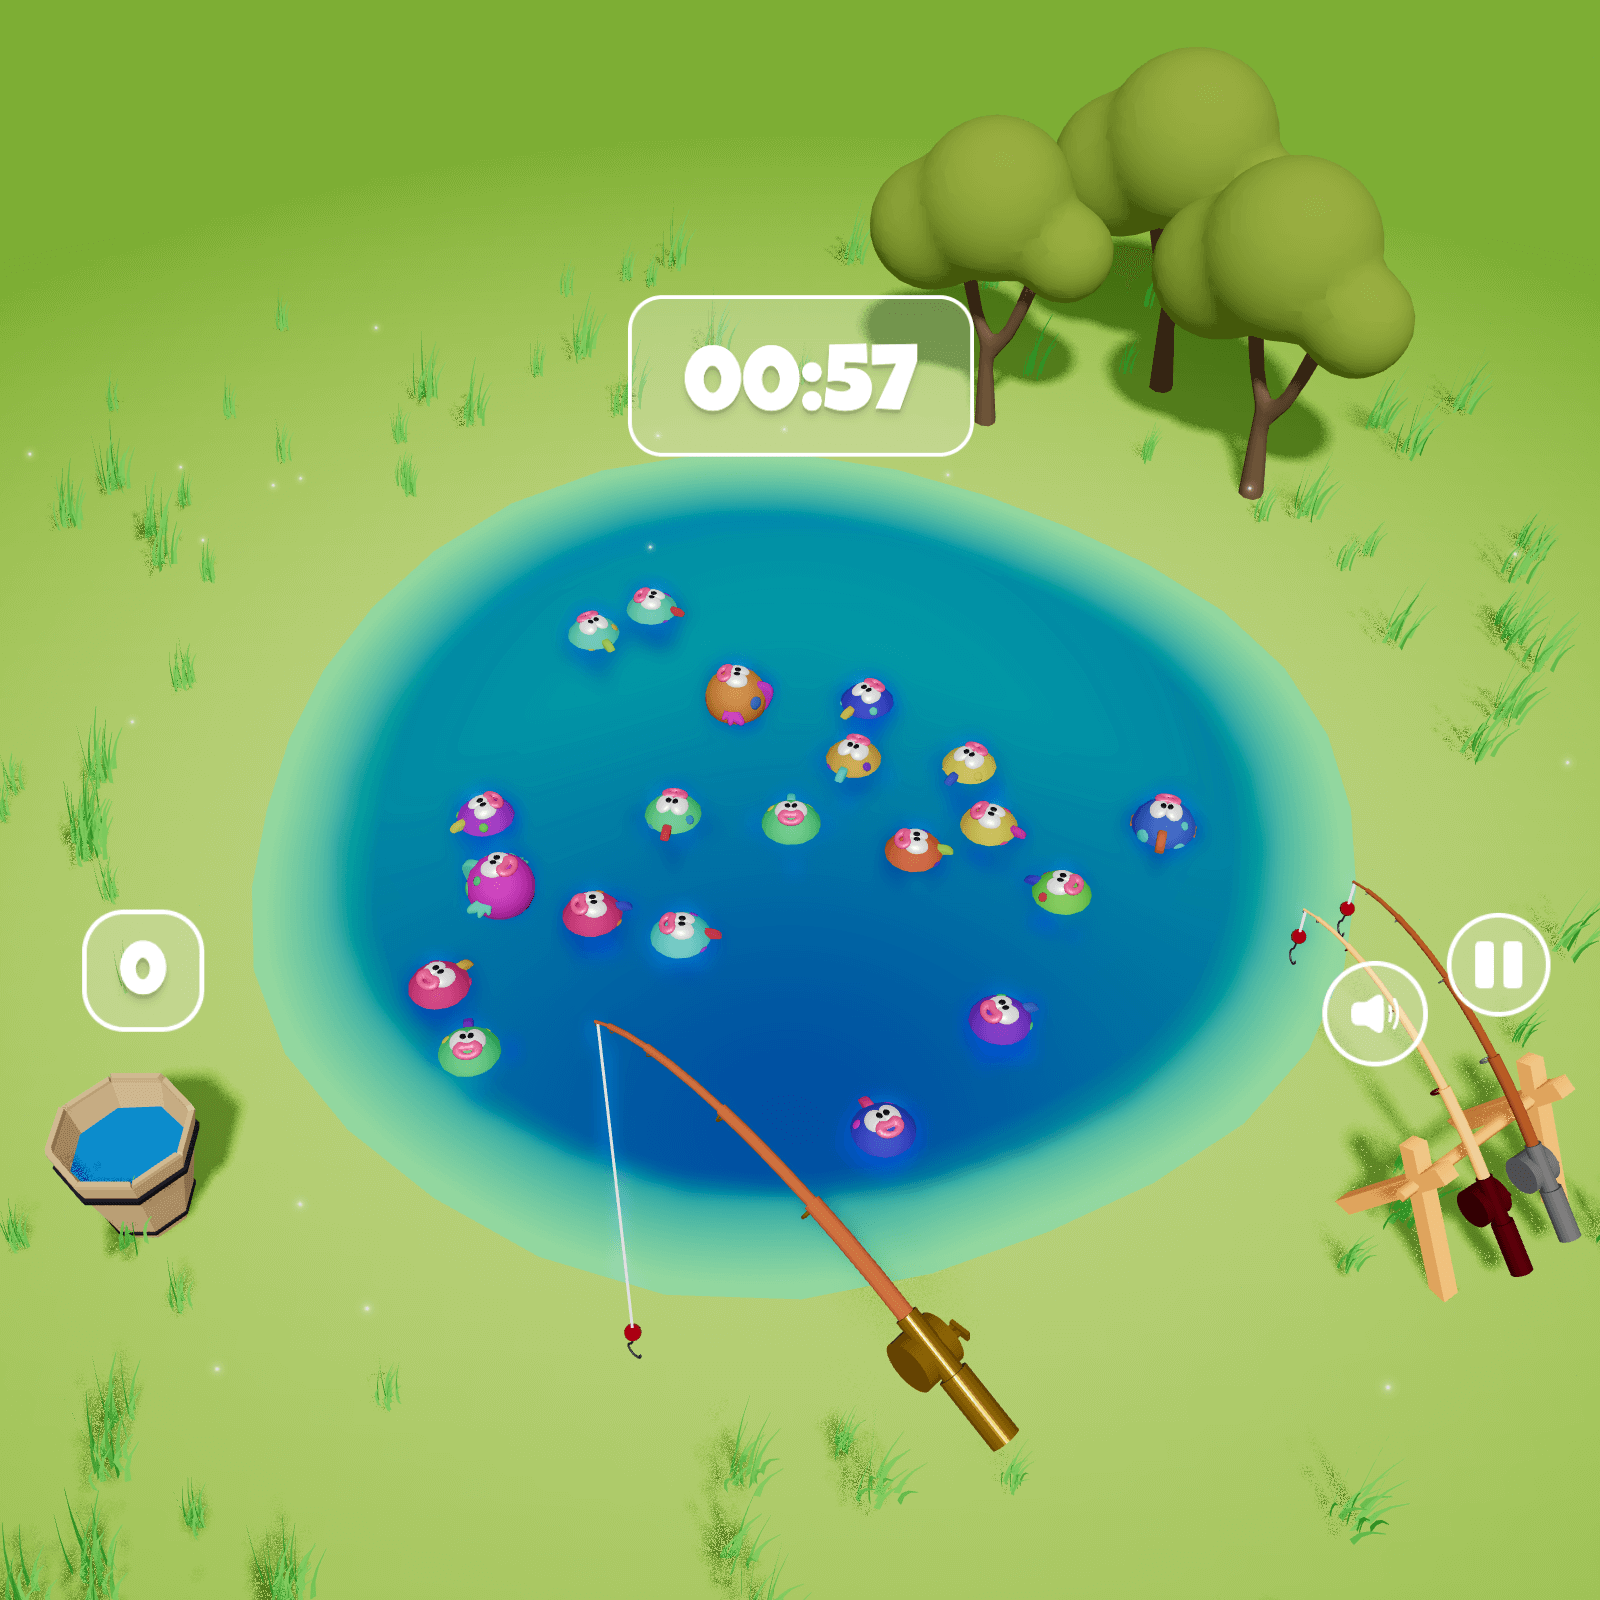
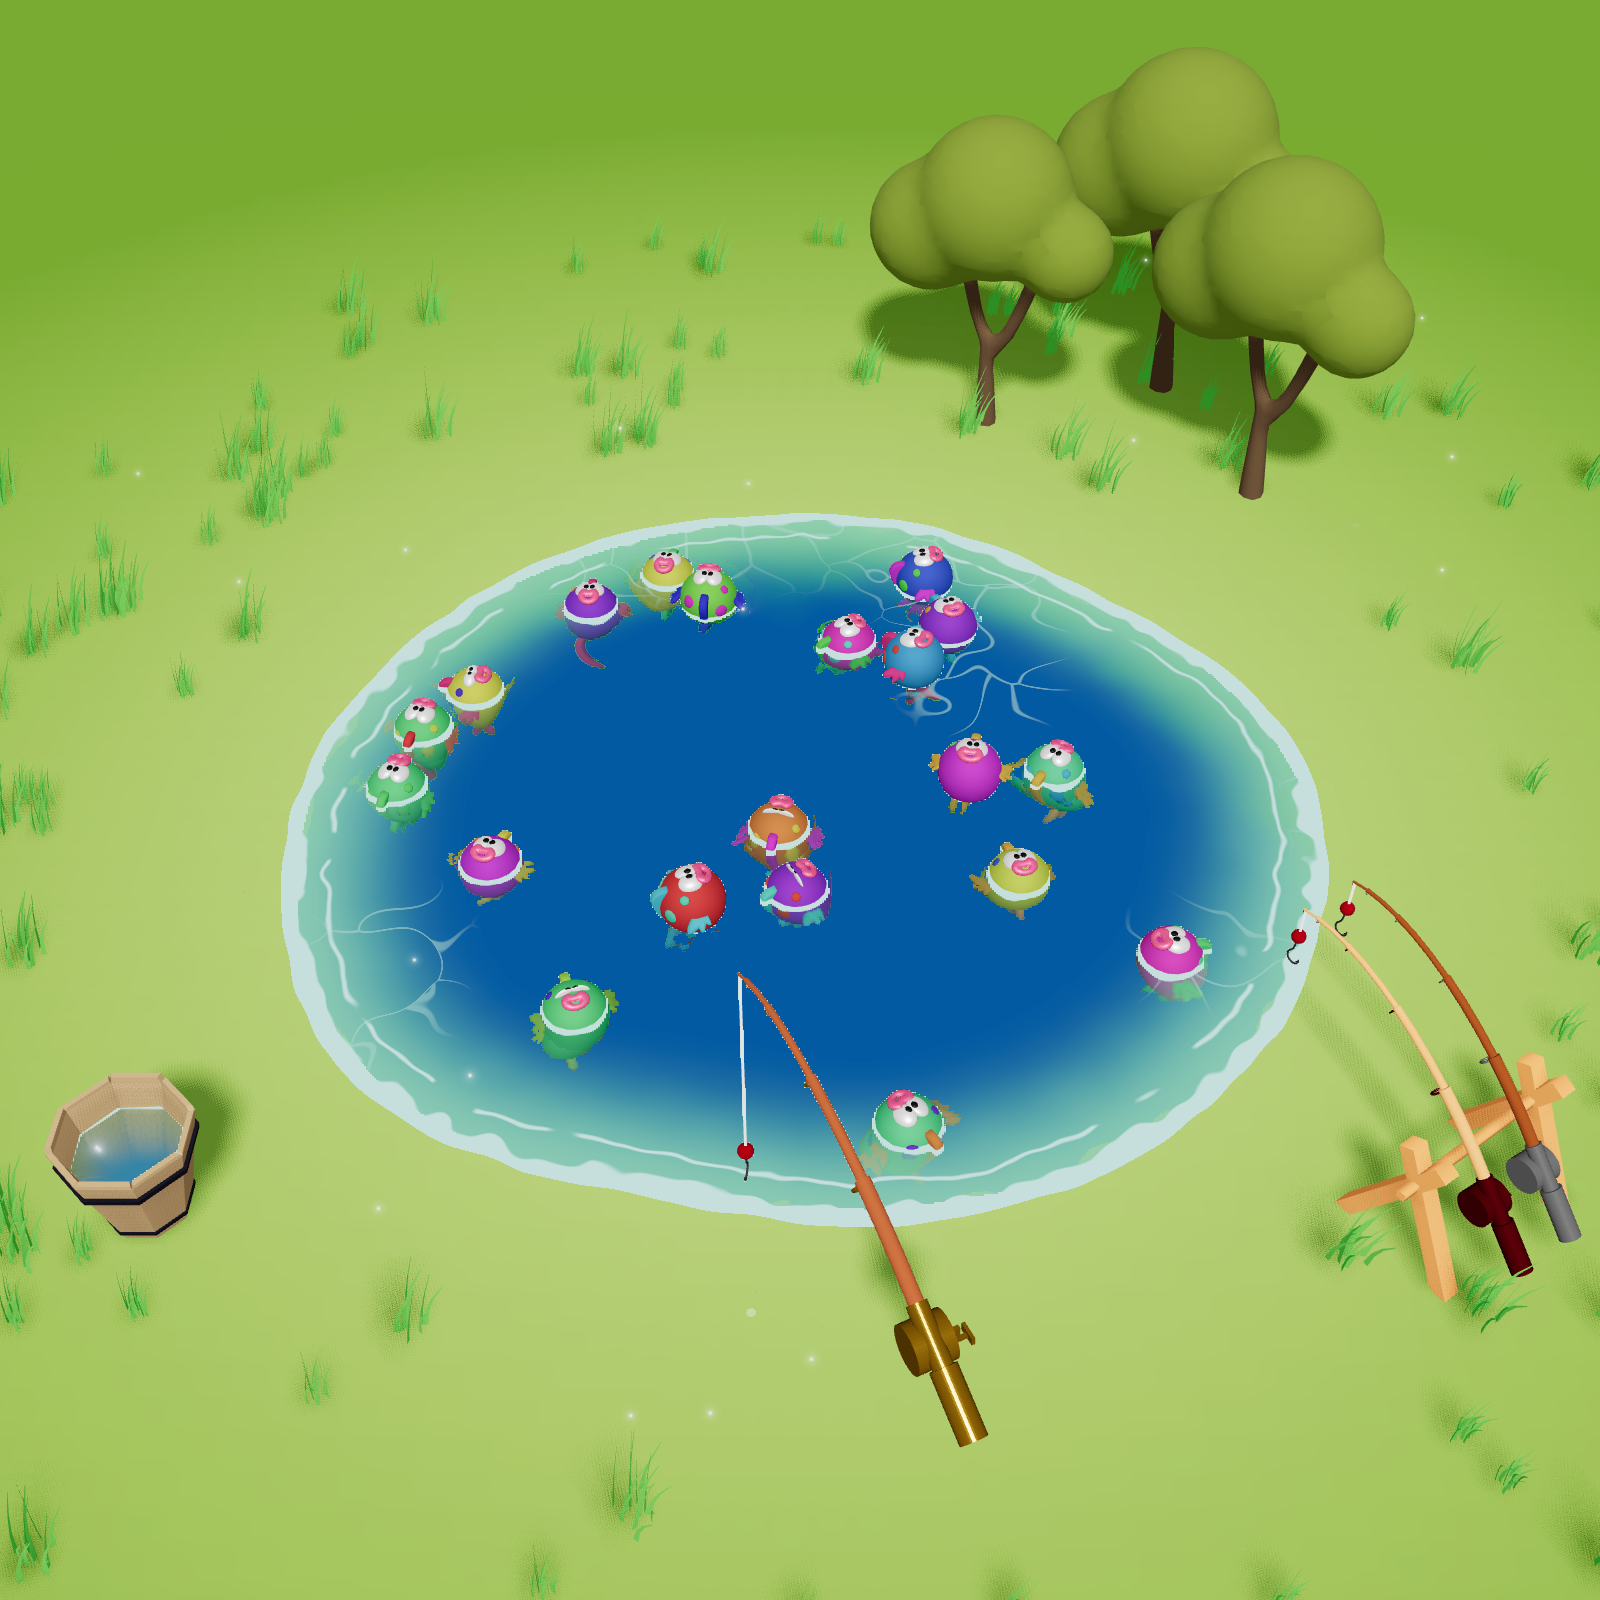
Update media contents

diff --git a/src/components/slides/5-Examples.tsx b/src/components/slides/5-Examples.tsx
@@ -17,8 +17,8 @@ export function Examples(props: SlideProps) {
   }, [setLogo, setDemo])
 
   const examples = [
-    { image: '/images/drysland.png', url: 'https://drysland.vercel.app' },
-    // { image: '/images/hook-a-fish.png', url: 'https://hook-a-fish.vercel.app' },
+    { image: '/images/drysland.png', url: 'https://drysland.dammafra.dev' },
+    // { image: '/images/hook-a-fish.png', url: 'https://hook-a-fish.dammafra.dev' },
     { image: '/images/bruno.png', url: 'https://bruno-simon.com' },
     { image: '/images/chartogne.png', url: 'https://chartogne-taillet.com' },
     { image: '/images/cornrevolution.png', url: 'https://cornrevolution.resn.global' },
